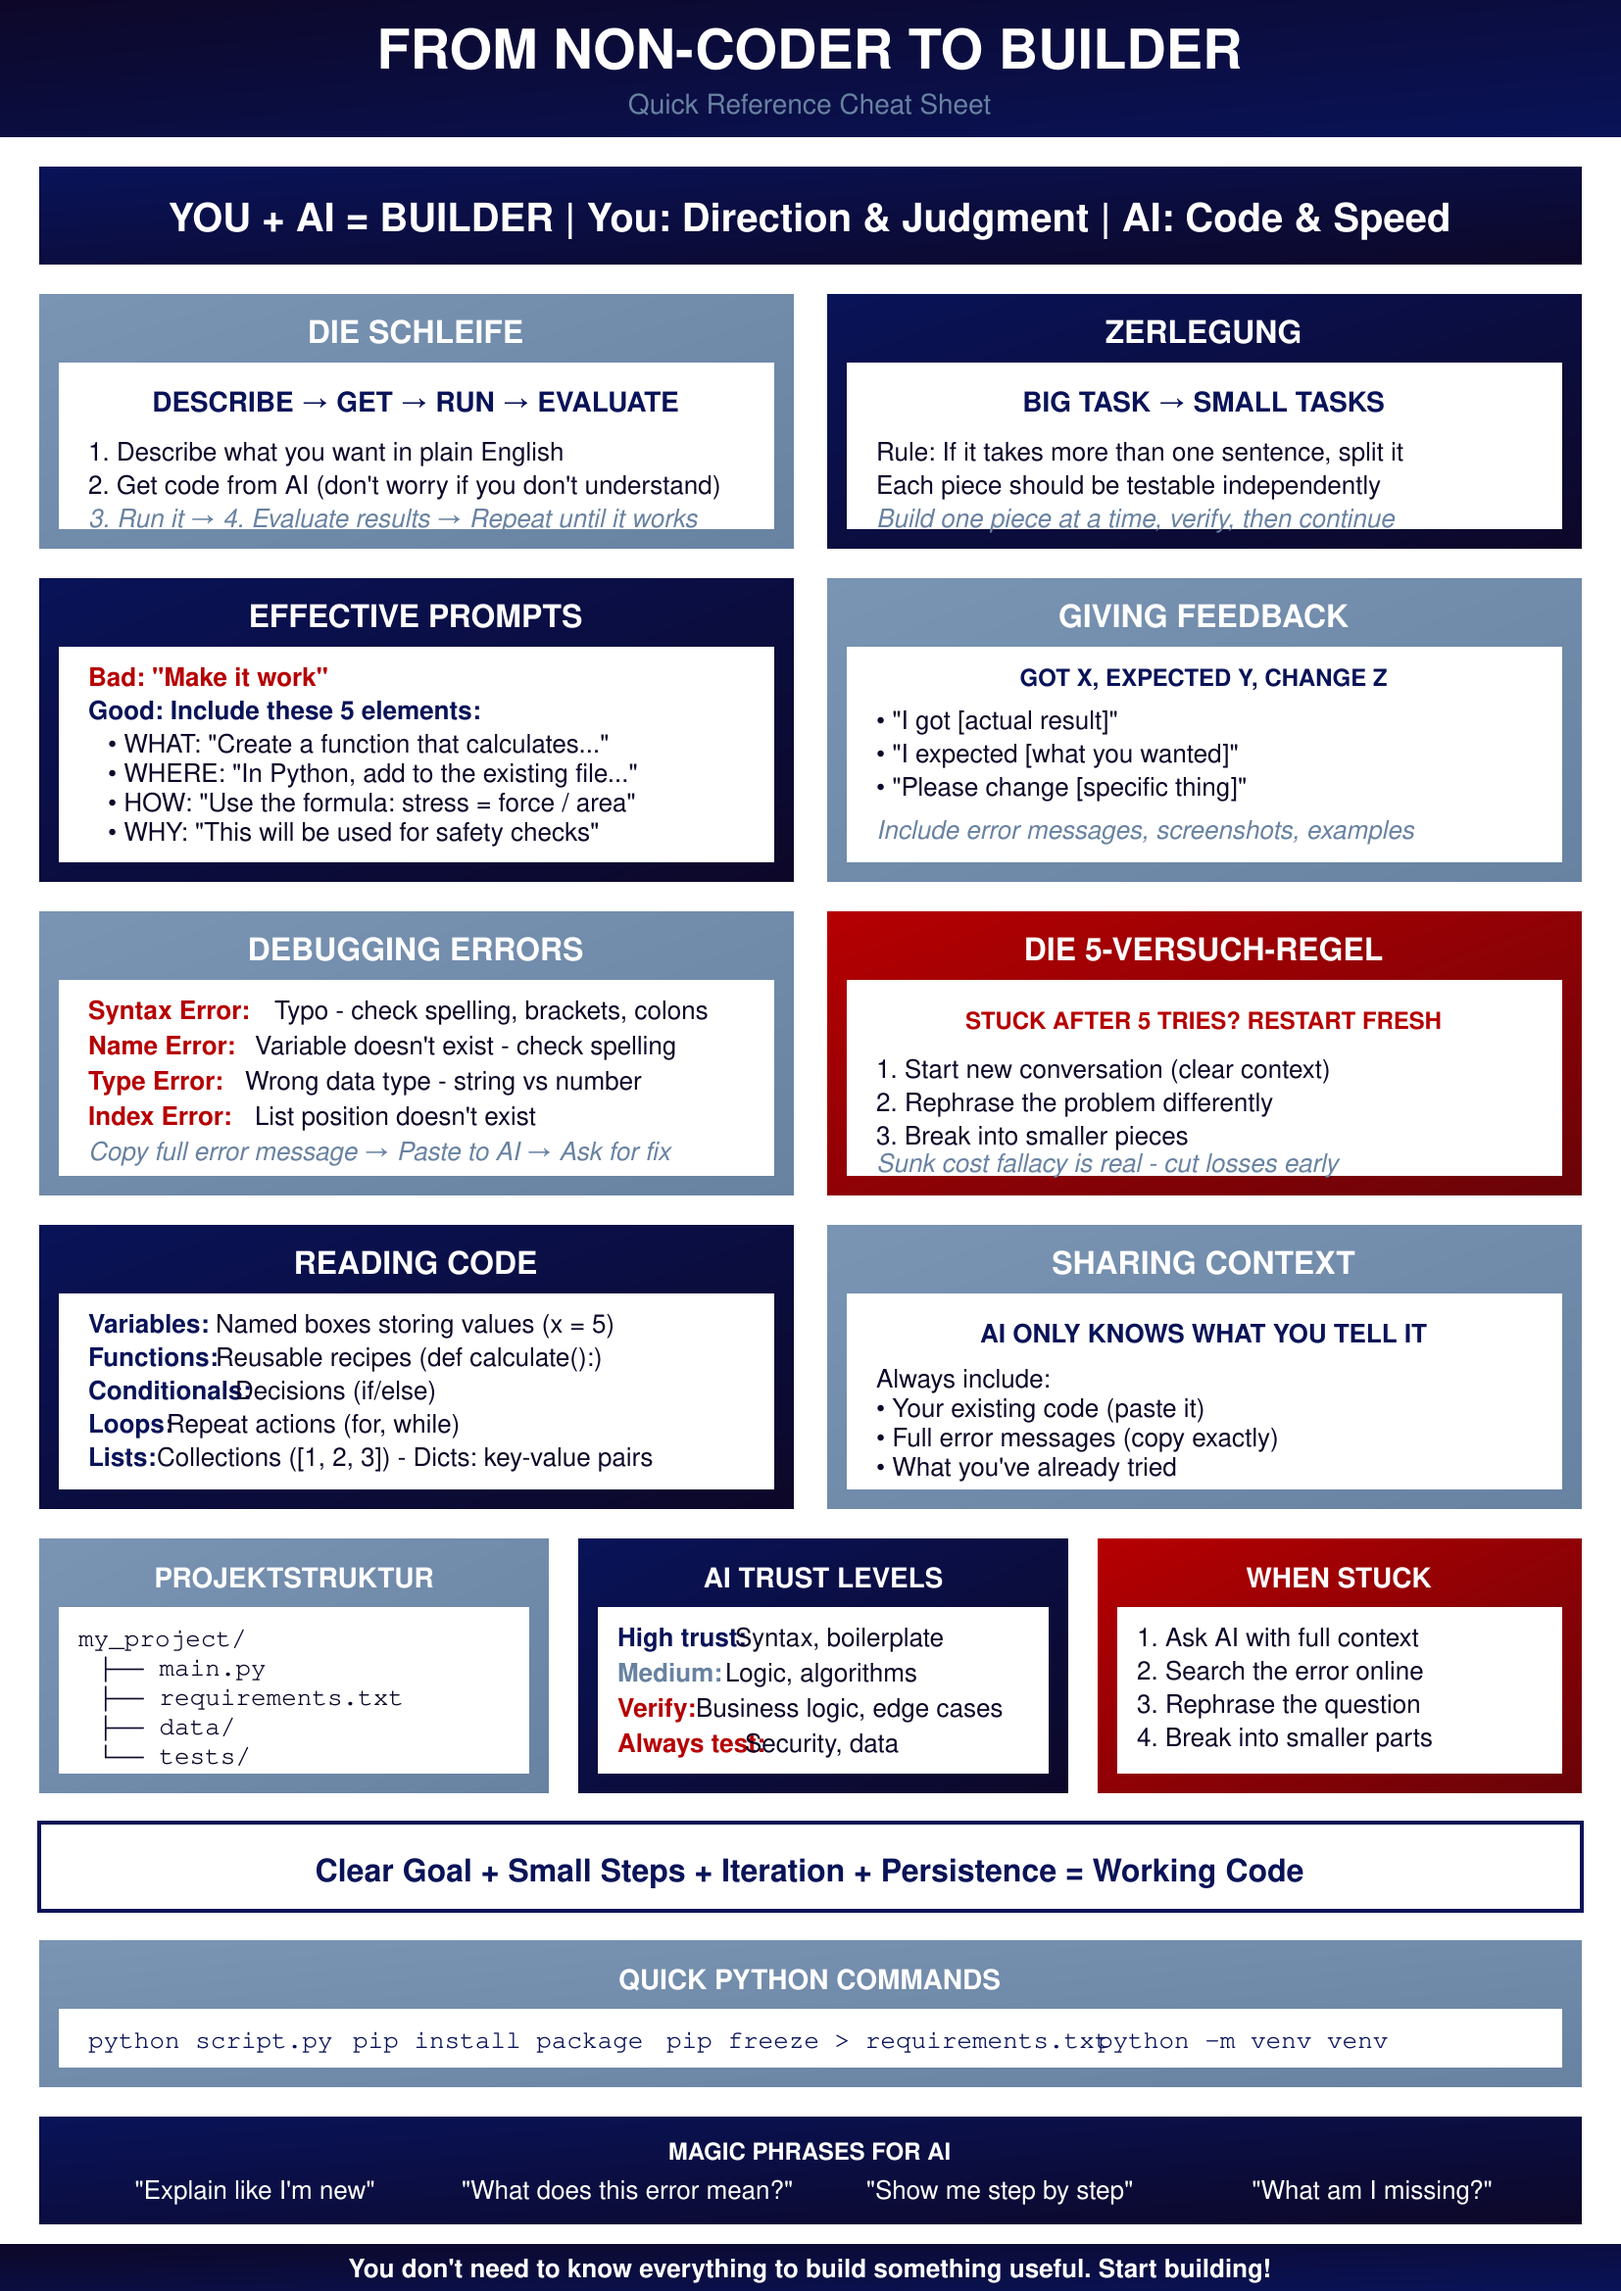
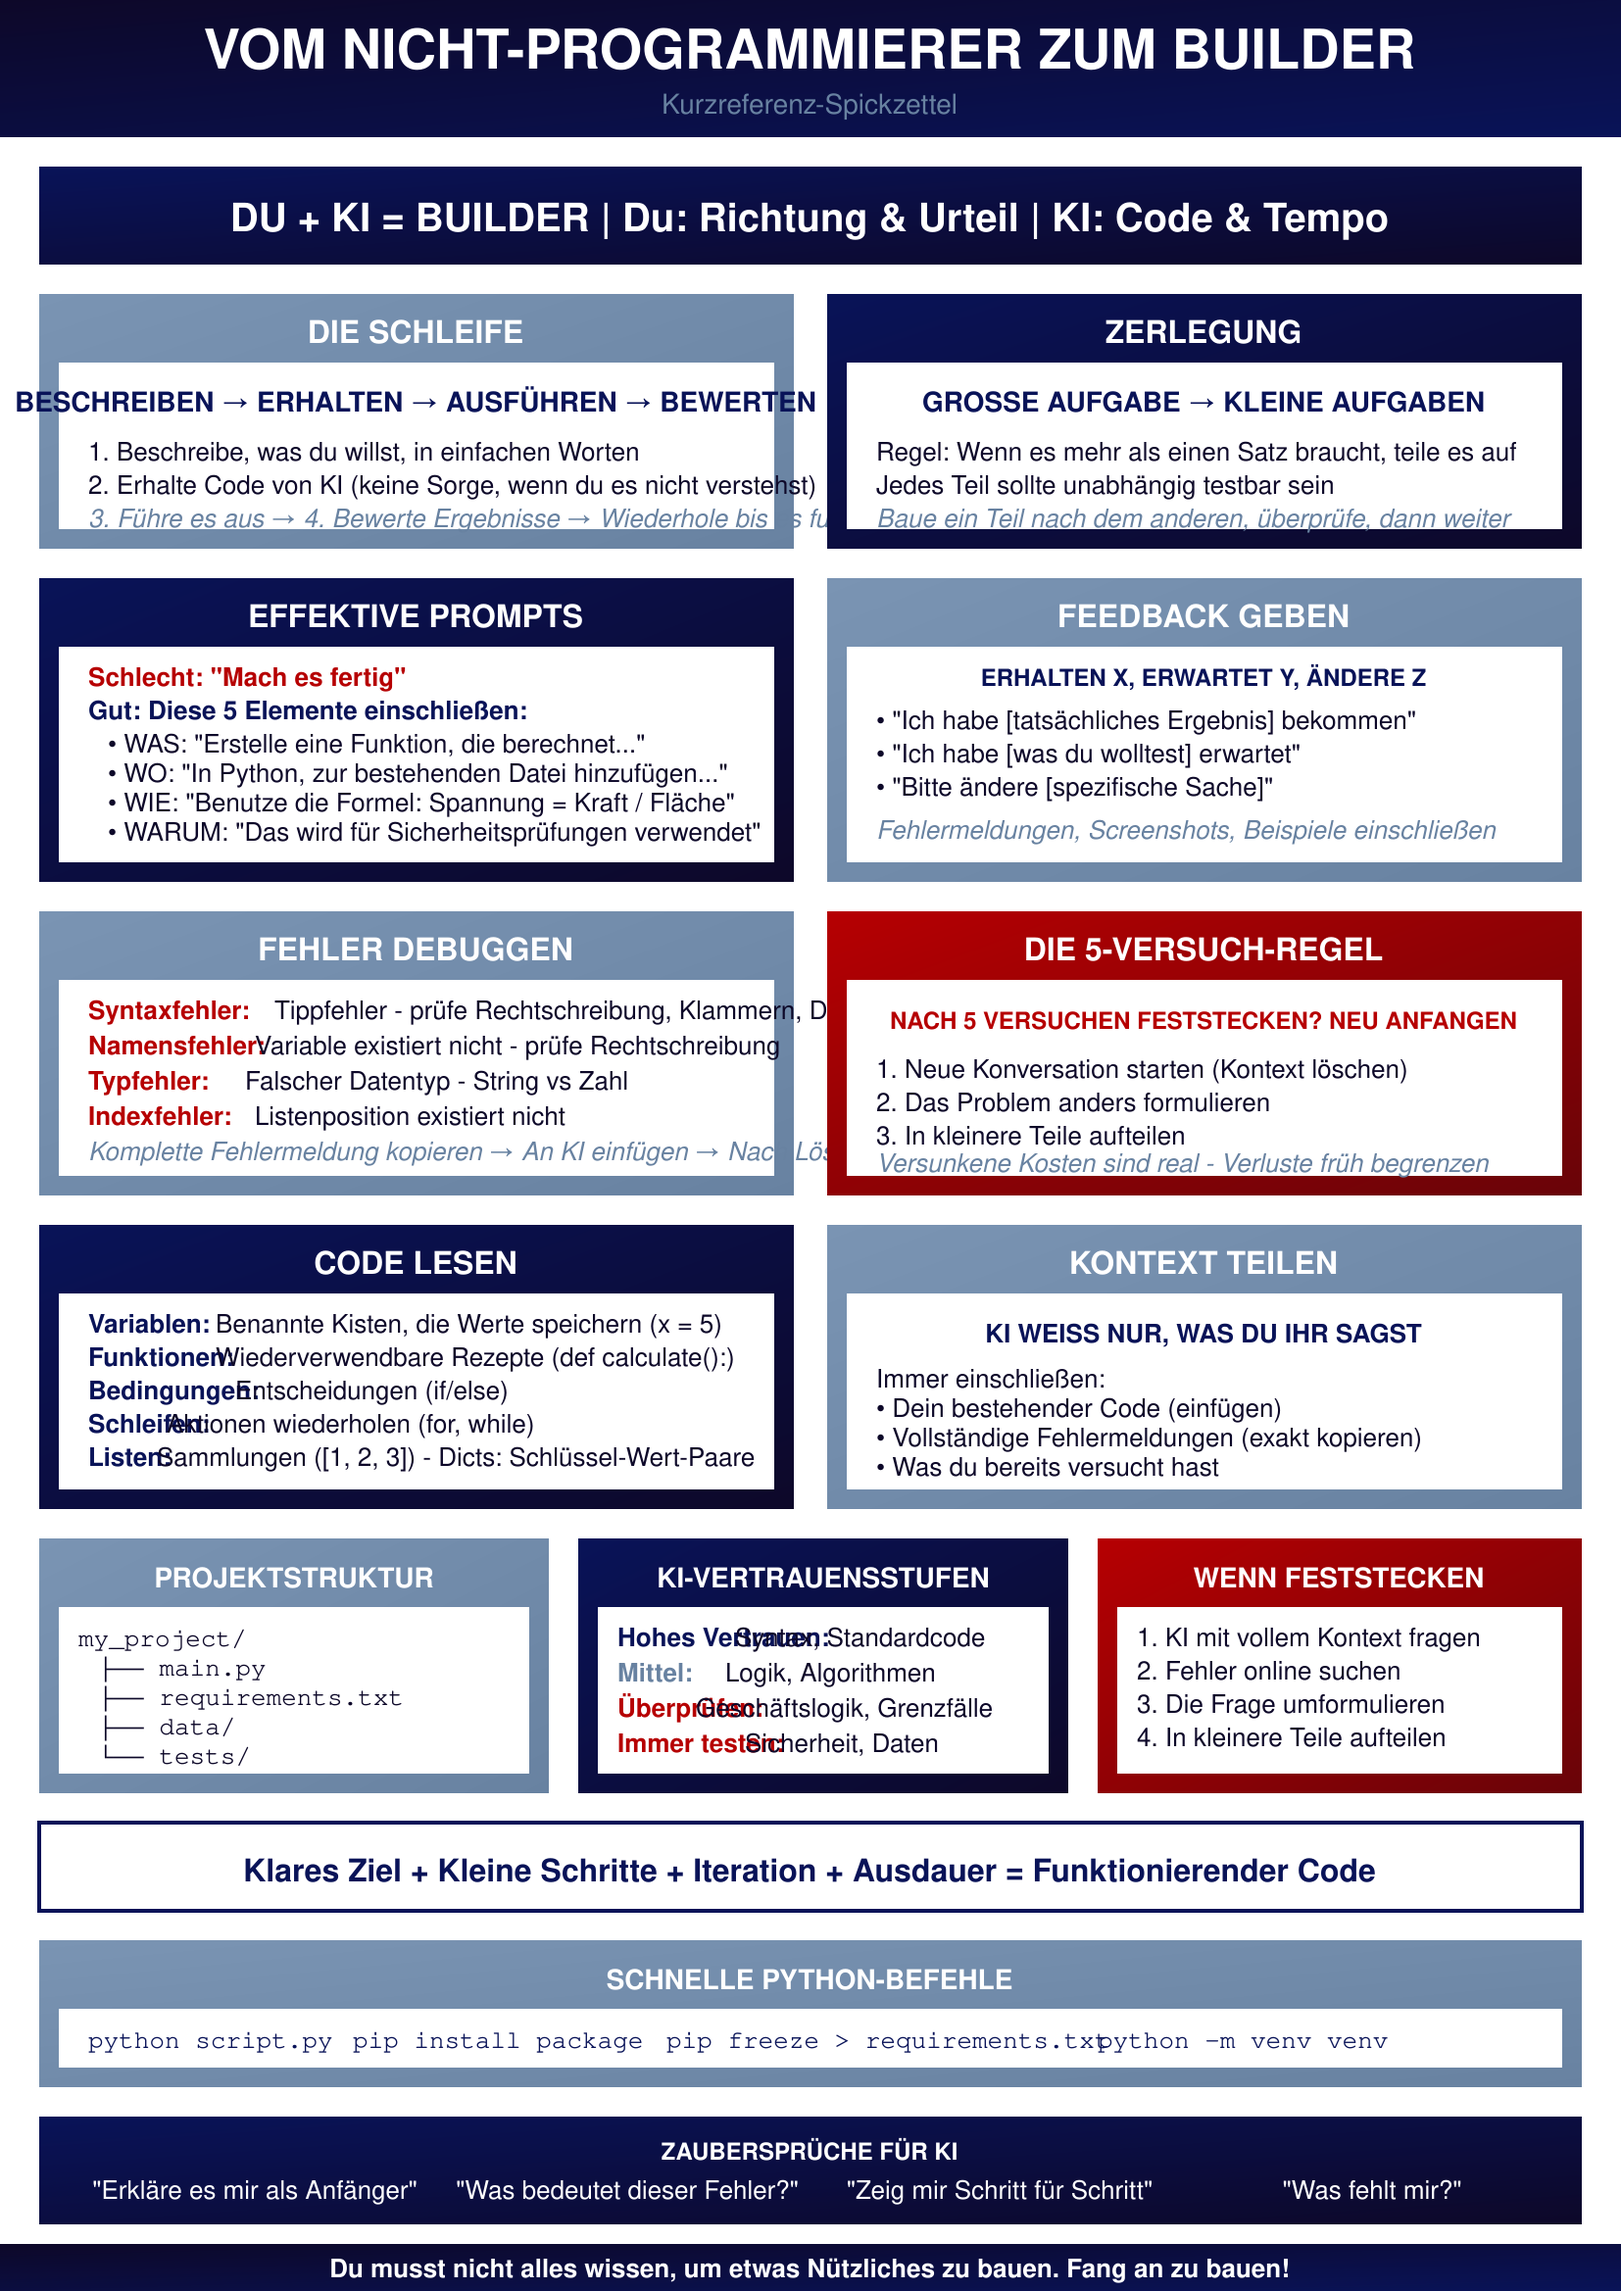
Remove fixed header/footer, complete German cheat sheet translation
- Remove fixed positioning from header - now scrolls with page
- Remove fixed bottom navigation - appears at end of content
- Hide progress bar (not needed without fixed header)
- Complete German cheat sheet translation with 70+ new translations
- Regenerate German cheat sheet PNG at 2x resolution

diff --git a/_layouts/default.html b/_layouts/default.html
@@ -60,11 +60,6 @@
     .site-header {
       background: var(--navy);
       padding: 0.75rem 1rem;
-      position: fixed;
-      top: 0;
-      left: 0;
-      right: 0;
-      z-index: 100;
       display: flex;
       justify-content: space-between;
       align-items: center;
@@ -102,10 +97,10 @@
     /* Sidebar - hidden on mobile by default */
     .sidebar {
       position: fixed;
-      top: 56px;
+      top: 0;
       left: -280px;
       width: 280px;
-      height: calc(100vh - 56px);
+      height: 100vh;
       background: var(--gray);
       border-right: 1px solid var(--border);
       overflow-y: auto;
@@ -122,7 +117,7 @@
     .sidebar-overlay {
       display: none;
       position: fixed;
-      top: 56px;
+      top: 0;
       left: 0;
       right: 0;
       bottom: 0;
@@ -194,7 +189,7 @@
 
     /* Main Content - Mobile first */
     .main-content {
-      padding: 72px 1.25rem 100px 1.25rem;
+      padding: 1.5rem 1.25rem 2rem 1.25rem;
       max-width: 100%;
     }
 
@@ -396,19 +391,14 @@
       font-weight: 600;
     }
 
-    /* Bottom navigation - sticky on mobile */
+    /* Bottom navigation */
     .chapter-nav {
-      position: fixed;
-      bottom: 0;
-      left: 0;
-      right: 0;
       background: #fff;
       border-top: 1px solid var(--border);
       display: flex;
       justify-content: space-between;
       padding: 0;
-      z-index: 50;
-      box-shadow: 0 -2px 10px rgba(0,0,0,0.1);
+      margin-top: 2rem;
     }
 
     .chapter-nav a {
@@ -438,15 +428,9 @@
       min-height: 56px;
     }
 
-    /* Progress indicator */
+    /* Progress indicator - hidden since header is not fixed */
     .progress-bar {
-      position: fixed;
-      top: 56px;
-      left: 0;
-      height: 3px;
-      background: var(--red);
-      z-index: 101;
-      transition: width 0.2s;
+      display: none;
     }
 
     /* Breadcrumb */
@@ -476,8 +460,7 @@
       background: linear-gradient(135deg, var(--blue), var(--navy));
       color: #fff;
       padding: 1.5rem 1.25rem;
-      margin: -72px -1.25rem 1.5rem -1.25rem;
-      padding-top: calc(72px + 1.5rem);
+      margin: -1.5rem -1.25rem 1.5rem -1.25rem;
     }
 
     .part-header h1 {
@@ -509,9 +492,10 @@
       }
 
       .sidebar {
+        position: fixed;
         left: 0;
-        top: 60px;
-        height: calc(100vh - 60px);
+        top: 0;
+        height: 100vh;
       }
 
       .sidebar-overlay {
@@ -520,7 +504,7 @@
 
       .main-content {
         margin-left: 280px;
-        padding: 80px 3rem 2rem 3rem;
+        padding: 2rem 3rem;
         max-width: 800px;
       }
 
@@ -537,11 +521,9 @@
       }
 
       .chapter-nav {
-        position: static;
         background: none;
         border-top: 1px solid var(--border);
         margin-top: 3rem;
-        box-shadow: none;
       }
 
       .chapter-nav a {
@@ -559,8 +541,8 @@
       }
 
       .part-header {
-        margin: -80px -3rem 2rem -3rem;
-        padding: calc(80px + 2rem) 3rem 2rem 3rem;
+        margin: -2rem -3rem 2rem -3rem;
+        padding: 2rem 3rem;
       }
     }
 

diff --git a/scripts/translate_diagrams.py b/scripts/translate_diagrams.py
@@ -690,6 +690,116 @@ TRANSLATIONS = {
     # Summary/Key takeaways diagram
     "What you've learned and where you're going": "Was du gelernt hast und wohin du gehst",
     "Everything in one page": "Alles auf einer Seite",
+
+    # Cheat sheet - Header
+    "FROM NON-CODER TO BUILDER": "VOM NICHT-PROGRAMMIERER ZUM BUILDER",
+    "Quick Reference Cheat Sheet": "Kurzreferenz-Spickzettel",
+
+    # Cheat sheet - Core partnership
+    "YOU + AI = BUILDER  |  You: Direction &amp; Judgment  |  AI: Code &amp; Speed": "DU + KI = BUILDER  |  Du: Richtung &amp; Urteil  |  KI: Code &amp; Tempo",
+
+    # Cheat sheet - Loop section
+    "DESCRIBE → GET → RUN → EVALUATE": "BESCHREIBEN → ERHALTEN → AUSFÜHREN → BEWERTEN",
+    "1. Describe what you want in plain English": "1. Beschreibe, was du willst, in einfachen Worten",
+    "2. Get code from AI (don't worry if you don't understand)": "2. Erhalte Code von KI (keine Sorge, wenn du es nicht verstehst)",
+    "3. Run it → 4. Evaluate results → Repeat until it works": "3. Führe es aus → 4. Bewerte Ergebnisse → Wiederhole bis es funktioniert",
+
+    # Cheat sheet - Decomposition section
+    "BIG TASK → SMALL TASKS": "GROSSE AUFGABE → KLEINE AUFGABEN",
+    "Rule: If it takes more than one sentence, split it": "Regel: Wenn es mehr als einen Satz braucht, teile es auf",
+    "Each piece should be testable independently": "Jedes Teil sollte unabhängig testbar sein",
+    "Build one piece at a time, verify, then continue": "Baue ein Teil nach dem anderen, überprüfe, dann weiter",
+
+    # Cheat sheet - Effective Prompts
+    "EFFECTIVE PROMPTS": "EFFEKTIVE PROMPTS",
+    'Bad: "Make it work"': 'Schlecht: "Mach es fertig"',
+    "Good: Include these 5 elements:": "Gut: Diese 5 Elemente einschließen:",
+    '• WHAT: "Create a function that calculates..."': '• WAS: "Erstelle eine Funktion, die berechnet..."',
+    '• WHERE: "In Python, add to the existing file..."': '• WO: "In Python, zur bestehenden Datei hinzufügen..."',
+    '• HOW: "Use the formula: stress = force / area"': '• WIE: "Benutze die Formel: Spannung = Kraft / Fläche"',
+    '• WHY: "This will be used for safety checks"': '• WARUM: "Das wird für Sicherheitsprüfungen verwendet"',
+
+    # Cheat sheet - Feedback section
+    "GIVING FEEDBACK": "FEEDBACK GEBEN",
+    "GOT X, EXPECTED Y, CHANGE Z": "ERHALTEN X, ERWARTET Y, ÄNDERE Z",
+    '• "I got [actual result]"': '• "Ich habe [tatsächliches Ergebnis] bekommen"',
+    '• "I expected [what you wanted]"': '• "Ich habe [was du wolltest] erwartet"',
+    '• "Please change [specific thing]"': '• "Bitte ändere [spezifische Sache]"',
+    "Include error messages, screenshots, examples": "Fehlermeldungen, Screenshots, Beispiele einschließen",
+
+    # Cheat sheet - Debugging section
+    "DEBUGGING ERRORS": "FEHLER DEBUGGEN",
+    "Syntax Error:": "Syntaxfehler:",
+    "Typo - check spelling, brackets, colons": "Tippfehler - prüfe Rechtschreibung, Klammern, Doppelpunkte",
+    "Name Error:": "Namensfehler:",
+    "Variable doesn't exist - check spelling": "Variable existiert nicht - prüfe Rechtschreibung",
+    "Type Error:": "Typfehler:",
+    "Wrong data type - string vs number": "Falscher Datentyp - String vs Zahl",
+    "Index Error:": "Indexfehler:",
+    "List position doesn't exist": "Listenposition existiert nicht",
+    "Copy full error message → Paste to AI → Ask for fix": "Komplette Fehlermeldung kopieren → An KI einfügen → Nach Lösung fragen",
+
+    # Cheat sheet - 5-Attempt Rule
+    "STUCK AFTER 5 TRIES? RESTART FRESH": "NACH 5 VERSUCHEN FESTSTECKEN? NEU ANFANGEN",
+    "1. Start new conversation (clear context)": "1. Neue Konversation starten (Kontext löschen)",
+    "2. Rephrase the problem differently": "2. Das Problem anders formulieren",
+    "3. Break into smaller pieces": "3. In kleinere Teile aufteilen",
+    "Sunk cost fallacy is real - cut losses early": "Versunkene Kosten sind real - Verluste früh begrenzen",
+
+    # Cheat sheet - Reading Code
+    "READING CODE": "CODE LESEN",
+    "Variables:": "Variablen:",
+    "Named boxes storing values (x = 5)": "Benannte Kisten, die Werte speichern (x = 5)",
+    "Functions:": "Funktionen:",
+    "Reusable recipes (def calculate():)": "Wiederverwendbare Rezepte (def calculate():)",
+    "Conditionals:": "Bedingungen:",
+    "Decisions (if/else)": "Entscheidungen (if/else)",
+    "Loops:": "Schleifen:",
+    "Repeat actions (for, while)": "Aktionen wiederholen (for, while)",
+    "Lists:": "Listen:",
+    "Collections ([1, 2, 3]) - Dicts: key-value pairs": "Sammlungen ([1, 2, 3]) - Dicts: Schlüssel-Wert-Paare",
+
+    # Cheat sheet - Sharing Context
+    "SHARING CONTEXT": "KONTEXT TEILEN",
+    "AI ONLY KNOWS WHAT YOU TELL IT": "KI WEISS NUR, WAS DU IHR SAGST",
+    "Always include:": "Immer einschließen:",
+    "• Your existing code (paste it)": "• Dein bestehender Code (einfügen)",
+    "• Full error messages (copy exactly)": "• Vollständige Fehlermeldungen (exakt kopieren)",
+    "• What you've already tried": "• Was du bereits versucht hast",
+
+    # Cheat sheet - Trust Levels
+    "AI TRUST LEVELS": "KI-VERTRAUENSSTUFEN",
+    "High trust:": "Hohes Vertrauen:",
+    "Syntax, boilerplate": "Syntax, Standardcode",
+    "Medium:": "Mittel:",
+    "Logic, algorithms": "Logik, Algorithmen",
+    "Verify:": "Überprüfen:",
+    "Business logic, edge cases": "Geschäftslogik, Grenzfälle",
+    "Always test:": "Immer testen:",
+    "Security, data": "Sicherheit, Daten",
+
+    # Cheat sheet - When Stuck
+    "WHEN STUCK": "WENN FESTSTECKEN",
+    "1. Ask AI with full context": "1. KI mit vollem Kontext fragen",
+    "2. Search the error online": "2. Fehler online suchen",
+    "3. Rephrase the question": "3. Die Frage umformulieren",
+    "4. Break into smaller parts": "4. In kleinere Teile aufteilen",
+
+    # Cheat sheet - Formula
+    "Clear Goal + Small Steps + Iteration + Persistence = Working Code": "Klares Ziel + Kleine Schritte + Iteration + Ausdauer = Funktionierender Code",
+
+    # Cheat sheet - Quick Commands
+    "QUICK PYTHON COMMANDS": "SCHNELLE PYTHON-BEFEHLE",
+
+    # Cheat sheet - Magic Phrases
+    "MAGIC PHRASES FOR AI": "ZAUBERSPRÜCHE FÜR KI",
+    '"Explain like I\'m new"': '"Erkläre es mir als Anfänger"',
+    '"What does this error mean?"': '"Was bedeutet dieser Fehler?"',
+    '"Show me step by step"': '"Zeig mir Schritt für Schritt"',
+    '"What am I missing?"': '"Was fehlt mir?"',
+
+    # Cheat sheet - Footer
+    "You don't need to know everything to build something useful. Start building!": "Du musst nicht alles wissen, um etwas Nützliches zu bauen. Fang an zu bauen!",
 }
 
 def translate_svg(input_path: Path, output_path: Path):
